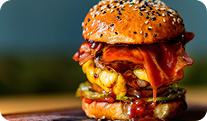
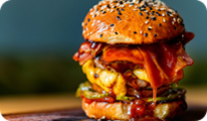
feat: add  Amount order for every categorie

diff --git a/script/template/cardviewtemplate.js b/script/template/cardviewtemplate.js
@@ -5,16 +5,17 @@ function renderBlackBurgerTemplate(ArrObj, index) {
                 <img src="${ArrObj.image}" alt="burger">
                   </div>
             <div class="title-content-burger">
-                <h3 id="name-burger"> ${ArrObj.name}</h3>
+                <h4 id="name-burger"> ${ArrObj.name}</h4>
                 <h6 id="burger-description">${ArrObj.description}</h6>
             </div>
+            <div id="amount-order-pizza" class="amount-burger">${ArrObj.amount}</div>
             <div class="price-addOrder">
-                <div id="price">${ArrObj.price}</div>
+            <div id="price">${Number(ArrObj.price).toFixed(2).replace(".", ",")} €</div>
             <div class="add-choice">
-                    <button  id="btn-add" type="button" class="btn-icon theme-danger btn-solid btn-styled" aria-label="Icon only" onclick="getOrder()">
-                        <svg class="bi" width="16" height="16" aria-hidden="true">
-                            <use href="#plus-lg" />
-                        </svg>
+                    <button id="btn-add-burger-${index}" type="button" class="btn-icon btn-lg rounded-pill" aria-label="Add burger" onclick="getOrderBurger(${index})">
+                       
+                        <i class="bi-plus-lg" aria-hidden="true"></i>
+                       
                     </button>
                 </div>
             </div> 
@@ -29,16 +30,17 @@ function renderPizzaTemplate(ArrObj, index) {
                 <img src="${ArrObj.image}" alt="pizza">
             </div>
             <div class="title-content-pizza">
-                <h3 id="name-pizza"> ${ArrObj.name}</h3>
+                <h4 id="name-pizza"> ${ArrObj.name}</h4>
                 <h6 id="pizza-description">${ArrObj.description}</h6>
             </div>
+             <div id="amount-order-pizza" class="amount-pizza">${ArrObj.amount}</div>
             <div class="price-addOrder">
-                <div id="price">${ArrObj.price}</div>
+                <div id="price">${Number(ArrObj.price).toFixed(2).replace(".", ",")} €</div>
             <div class="add-choice">
-                    <button  id="btn-add" type="button" class="btn-icon theme-danger btn-solid btn-styled" aria-label="Icon only" onclick="getOrder()">
-                        <svg class="bi" width="16" height="16" aria-hidden="true">
-                            <use href="#plus-lg" />
-                        </svg>
+                    <button  id="btn-add-pizza-${index}" type="button"  class="btn-icon btn-lg rounded-pill" aria-label="Add pizza" onclick="getOrderPizza(${index})">
+                       
+                        <i class="bi bi-plus-lg" aria-hidden="true"></i>
+                       
                     </button>
                 </div>
             </div> 
@@ -53,21 +55,21 @@ function renderSaladTemplate(ArrObj, index) {
                 <img src="${ArrObj.image}" alt="salad">
             </div>
             <div class="title-content-salad">
-                <h3 id="name-salad"> ${ArrObj.name}</h3>
+                <h4 id="name-salad"> ${ArrObj.name}</h4>
                 <h6 id="salad-description">${ArrObj.description}</h6>
             </div>
+            <div id="amount-order-salad" class="amount-salad">${ArrObj.amount}</div>
             <div class="price-addOrder">
-                <div id="price">${ArrObj.price}</div>
+                <div id="price">${Number(ArrObj.price).toFixed(2).replace(".", ",")} €</div>
             <div class="add-choice">
-                    <button  id="btn-add" type="button" class="btn-icon theme-danger btn-solid btn-styled" aria-label="Icon only" onclick="getOrder()">
-                        <svg class="bi" width="16" height="16" aria-hidden="true">
-                            <use href="#plus-lg" />
-                        </svg>
+                    <button  id="btn-add-salad-${index}" type="button" class="btn-icon btn-lg rounded-pill" aria-label="Add Salad" onclick="getOrderSalad(${index})">
+                      
+                        <i  class="bi bi-plus-lg" aria-hidden="true"></i>
+                  
                     </button>
                 </div>
             </div> 
         </div>
     `;
 }
-
 

diff --git a/script/index.html b/script/index.html
@@ -19,6 +19,7 @@
     <script src="../Raw-data/db.js" defer></script>
     <script src="../script/template/cardviewtemplate.js" defer></script>
     <script src="../script/loadcardview.js" defer></script>
+    <script src="../script/template/cardviewbaskettemplate.js" defer></script>
     <title>BestellApp</title>
   </head>
   <header class="header-wrapper">
@@ -69,20 +70,24 @@
             </div>
           </div>
           <div class="restaurant-description">
-            <h3>
+            <h4>
               The best of Burgers, Pizza, and Greens, all in one great place
-            </h3>
+            </h4>
           </div>
         </div>
       </section>
       <section class="menu-catalogue">
         <div class="burger-categorie">
-          <img
-            class="img-burger-categorie"
-            src="../assets/icons/Chanese.png"
-            alt=""
-          />
-          <h2>Burger & Sandwiches</h2>
+          <div class="img-cat1">
+            <img
+              class="img-burger-categorie"
+              src="../assets/icons/Chanese.png"
+              alt=""
+            />
+          </div>
+          <div class="burger">
+            <h3>Burger & Sandwiches</h3>
+          </div>
         </div>
 
         <div id="menu-burger" class="burger-sandwiche"></div>
@@ -93,7 +98,7 @@
             src="../assets/icons/Pizza1.png"
             alt=""
           />
-          <h2>Pizza (30cm)</h2>
+          <h3>Pizza (30cm)</h3>
         </div>
 
         <div id="menu-pizza" class="pizza_30cm"></div>
@@ -104,7 +109,7 @@
             src="../assets/icons/Salad1.png"
             alt=""
           />
-          <h2>Salad</h2>
+          <h3>Salad</h3>
         </div>
         <div id="menu-salad" class="salad"></div>
       </section>

diff --git a/style/style.css b/style/style.css
@@ -5,7 +5,6 @@
   margin: 0 auto;
   box-sizing: border-box;
   scroll-behavior: smooth;
-  line-height: 120%;
 }
 
 html,
@@ -20,7 +19,7 @@ body {
 }
 header {
   display: flex;
-  height: 128px;
+  height: 64px;
   width: 100%;
   gap: 700px;
   align-items: center;
@@ -90,6 +89,7 @@ header {
   font-style: Bold;
   font-size: 24px;
   color: #363534;
+  text-align: left;
 }
 .restaurant-rating {
   display: flex;
@@ -112,6 +112,8 @@ header {
 .burger-categorie {
   display: flex;
   flex-direction: row;
+  align-items: center;
+  justify-items: center;
   gap: 10px;
   background-color: #e76c1f;
   height: 60px;
@@ -133,8 +135,39 @@ header {
 }
 .img-burger-categorie {
   width: 70px;
-  height: 81px;
+  height: 61px;
 }
+
+button .btn-icon {
+  cursor: pointer;
+  color: red;
+  background-color: white;
+  border: none;
+  font-size: 24px;
+  font-weight: 400;
+}
+/*
+
+.btn-icon {
+  fill: red;
+  background-color: white;
+
+  display: flex;
+  align-items: center;
+  justify-content: center;
+  border: none;
+}
+
+.bi-plus-lg {
+  color: red;
+  font-size: 24px;
+  border-radius: 50px;
+  display: flex;
+  align-items: center;
+  justify-content: center;
+}
+*/
+
 footer {
   display: flex;
   height: 128px;

diff --git a/script/template/cardviewbaskettemplate.js b/script/template/cardviewbaskettemplate.js
@@ -1,0 +1,23 @@
+function renderWarenkorb(ArrObj, index) {
+    return /*html*/ `
+        <div class="single-menu-burger"> 
+            <div id="show-img-choice-${index}" class="img-order">
+                <img src="${ArrObj.image}" alt="burger">
+                  </div>
+            <div class="title-content-burger">
+                <h4 id="name-burger"> ${ArrObj.name}</h4>
+                <h6 id="burger-description">${ArrObj.description}</h6>
+            </div>
+            <div class="price-addOrder">
+            <div id="price">${Number(ArrObj.price).toFixed(2).replace(".", ",")} €</div>
+            <div class="add-choice">
+                    <button id="btn-add-burger-${index}" type="button" class="btn-icon btn-lg rounded-pill" aria-label="Add burger" onclick="getOrder(${index})">
+                       
+                        <i class="bi-plus-lg" aria-hidden="true"></i>
+                       
+                    </button>
+                </div>
+            </div> 
+        </div>
+    `;
+}

diff --git a/script/loadcardview.js b/script/loadcardview.js
@@ -1,6 +1,7 @@
 
 creatCarviewBurger(arrDishes);
 
+
 function creatCarviewBurger(obj) {
     for (let i = 0; i < obj.length - 2; i++) {
         let categorie = obj[i];
@@ -9,14 +10,17 @@ function creatCarviewBurger(obj) {
             const catalogue = document.getElementById("menu-burger");
             catalogue.innerHTML += /*html*/ `
                         ${renderBlackBurgerTemplate(elt)}
-                       
-                         
+                        
             `;
         }
     }
 
 }
+
+
 creatCarviewPizza(arrDishes);
+
+
 function creatCarviewPizza(obj) {
     for (let i = 1; i < obj.length - 1; i++) {
         let categorie = obj[i];
@@ -32,7 +36,11 @@ function creatCarviewPizza(obj) {
     }
 
 }
+
+
 creatCarviewSalad(arrDishes);
+
+
 function creatCarviewSalad(obj) {
     for (let i = 2; i < obj.length; i++) {
         let categorie = obj[i];

diff --git a/style/renderburgerstyle.css b/style/renderburgerstyle.css
@@ -3,10 +3,11 @@
   flex-direction: column;
   justify-items: center;
   align-self: center;
-  align-items: flex-start;
   width: 713px;
   height: 612px;
-  gap: 8px;
+  gap: 16px;
+  margin-top: 10px;
+  margin-bottom: 10px;
 }
 
 .single-menu-burger {
@@ -14,15 +15,20 @@
   display: flex;
   flex-direction: row;
   height: 141px;
-  width: 713px;
+  width: 715px;
   border-radius: 5px;
+  align-items: center;
+  align-content: space-between;
+
+  gap: 10px;
 }
 
 .price-addOrder {
   background-color: #fdeadc;
   display: flex;
   flex-direction: column;
-  justify-content: space-around;
+
+  gap: 50px;
 }
 
 .h2 h2 {
@@ -35,4 +41,13 @@
   font-family: "Palanquin", sans-serif;
   color: #363534;
   font-size: 16px;
+}
+
+button {
+  cursor: pointer;
+  color: red;
+  background-color: white;
+  border: none;
+  font-size: 24px;
+  font-weight: 400;
 }

diff --git a/style/rendersaladstyle.css b/style/rendersaladstyle.css
@@ -7,6 +7,8 @@
   width: 713px;
   height: 612px;
   gap: 8px;
+  margin-top: 10px;
+  margin-bottom: 10px;
 }
 
 .single-menu-salad {
@@ -14,8 +16,12 @@
   display: flex;
   flex-direction: row;
   height: 141px;
-  width: 713px;
+  width: 715px;
   border-radius: 5px;
+  align-items: center;
+  align-content: space-between;
+
+  gap: 10px;
 }
 
 .price-addOrder {

diff --git a/style/renderpizzastyle.css b/style/renderpizzastyle.css
@@ -7,6 +7,7 @@
   width: 713px;
   height: 612px;
   gap: 8px;
+  margin-top: 10px;
 }
 
 .single-menu-pizza {
@@ -14,8 +15,12 @@
   display: flex;
   flex-direction: row;
   height: 141px;
-  width: 713px;
+  width: 715px;
   border-radius: 5px;
+  align-items: center;
+  align-content: space-between;
+
+  gap: 10px;
 }
 
 .price-addOrder {

diff --git a/script/amountorder/burgercartegorie.js b/script/amountorder/burgercartegorie.js
@@ -1,0 +1,3 @@
+/*function getOrderBurger(ArrObj, index) {
+
+}*/
